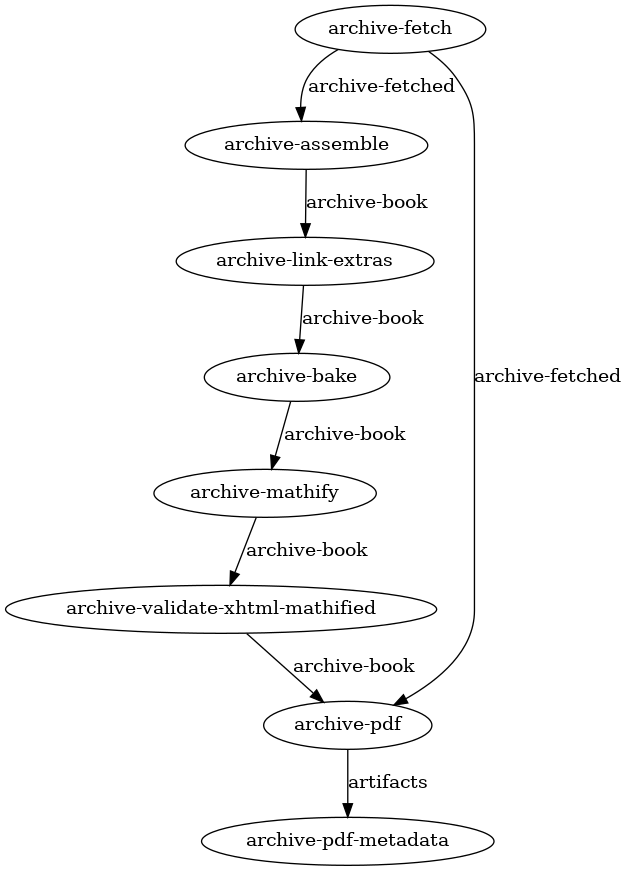
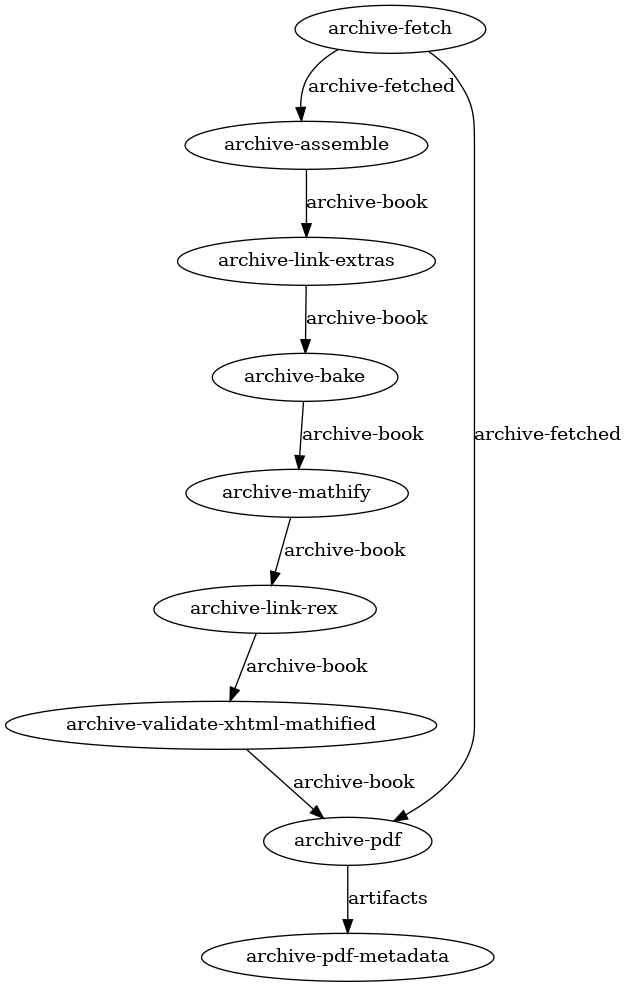
match openstax/output-producer-service#371

diff --git a/build-concourse/step-definitions.ts b/build-concourse/step-definitions.ts
@@ -58,7 +58,8 @@ set({name: 'git-bake-meta', inputs: [IO.BOOK, IO.ASSEMBLE_META, IO.BAKED], outpu
 set({name: 'git-validate-xhtml-mathified', inputs: [IO.BOOK, IO.MATHIFIED], outputs: [], env: {}})
 set({name: 'git-link', inputs: [IO.BOOK, IO.BAKED, IO.BAKE_META], outputs: [IO.LINKED], env: {ARG_OPT_ONLY_ONE_BOOK: false}})
 set({name: 'git-mathify', inputs: [IO.BOOK, IO.LINKED, IO.BAKED], outputs: [IO.MATHIFIED], env: {ARG_OPT_ONLY_ONE_BOOK: false}})
-set({name: 'git-pdfify', inputs: [IO.BOOK, IO.MATHIFIED], outputs: [IO.ARTIFACTS], env: {ARG_OPT_ONLY_ONE_BOOK: false}})
+set({name: 'git-link-rex', inputs: [IO.BOOK, IO.MATHIFIED, IO.FETCHED], outputs: [IO.REX_LINKED], env: {ARG_OPT_ONLY_ONE_BOOK: false}})
+set({name: 'git-pdfify', inputs: [IO.BOOK, IO.REX_LINKED], outputs: [IO.ARTIFACTS], env: {ARG_OPT_ONLY_ONE_BOOK: false}})
 set({name: 'git-pdfify-meta', inputs: [IO.BOOK, IO.ARTIFACTS], outputs: [IO.ARTIFACTS], env: {CORGI_ARTIFACTS_S3_BUCKET: true}})
 
 // GIT_WEB_STEPS
@@ -70,6 +71,7 @@ set({name: 'git-upload-book', inputs: [IO.BOOK, IO.JSONIFIED, IO.RESOURCES], out
 
 // ARCHIVE_PDF_STEPS
 set({name: 'archive-mathify', inputs: [IO.BOOK, IO.ARCHIVE_BOOK], outputs: [IO.ARCHIVE_BOOK], env: {}})
+set({name: 'archive-link-rex', inputs: [IO.BOOK, IO.ARCHIVE_BOOK, IO.ARCHIVE_FETCHED], outputs: [IO.ARCHIVE_BOOK], env: {}})
 set({name: 'archive-pdf', inputs: [IO.BOOK, IO.ARCHIVE_BOOK, IO.ARCHIVE_FETCHED], outputs: [IO.ARTIFACTS], env: {}})
 set({name: 'archive-pdf-metadata', inputs: [IO.BOOK, IO.ARTIFACTS], outputs: [IO.ARTIFACTS], env: {CORGI_ARTIFACTS_S3_BUCKET: true}})
 
@@ -111,6 +113,7 @@ export const CLI_GIT_PDF_STEPS = [
     get('git-bake-meta'),
     get('git-link'),
     get('git-mathify'),
+    get('git-link-rex'),
     get('git-validate-xhtml-mathified'),
     get('git-pdfify'),
 ]
@@ -140,11 +143,13 @@ export const GIT_WEB_STEPS = [
 
 export const CLI_ARCHIVE_PDF_STEPS = [
     get('archive-fetch'),
+    get('archive-fetch-metadata'), // used by archive-link-rex
     // get('archive-validate-cnxml'),
     get('archive-assemble'),
     get('archive-link-extras'),
     get('archive-bake'),
     get('archive-mathify'),
+    get('archive-link-rex'),
     get('archive-validate-xhtml-mathified'),
     get('archive-pdf'),
 ]

diff --git a/build-concourse/util.ts b/build-concourse/util.ts
@@ -102,6 +102,7 @@ export enum IO {
     BAKE_META = 'bake-meta', // 'baked-metadata-group',
     LINKED = 'linked', // 'linked-single',
     MATHIFIED = 'mathified', // 'mathified-single',
+    REX_LINKED = 'rex-linked',
     DISASSEMBLED = 'disassembled', // 'disassembled-single',
     ARTIFACTS = 'artifacts', // 'artifacts-single',
     DISASSEMBLE_LINKED = 'disassemble-linked', // 'disassembled-linked-single',
